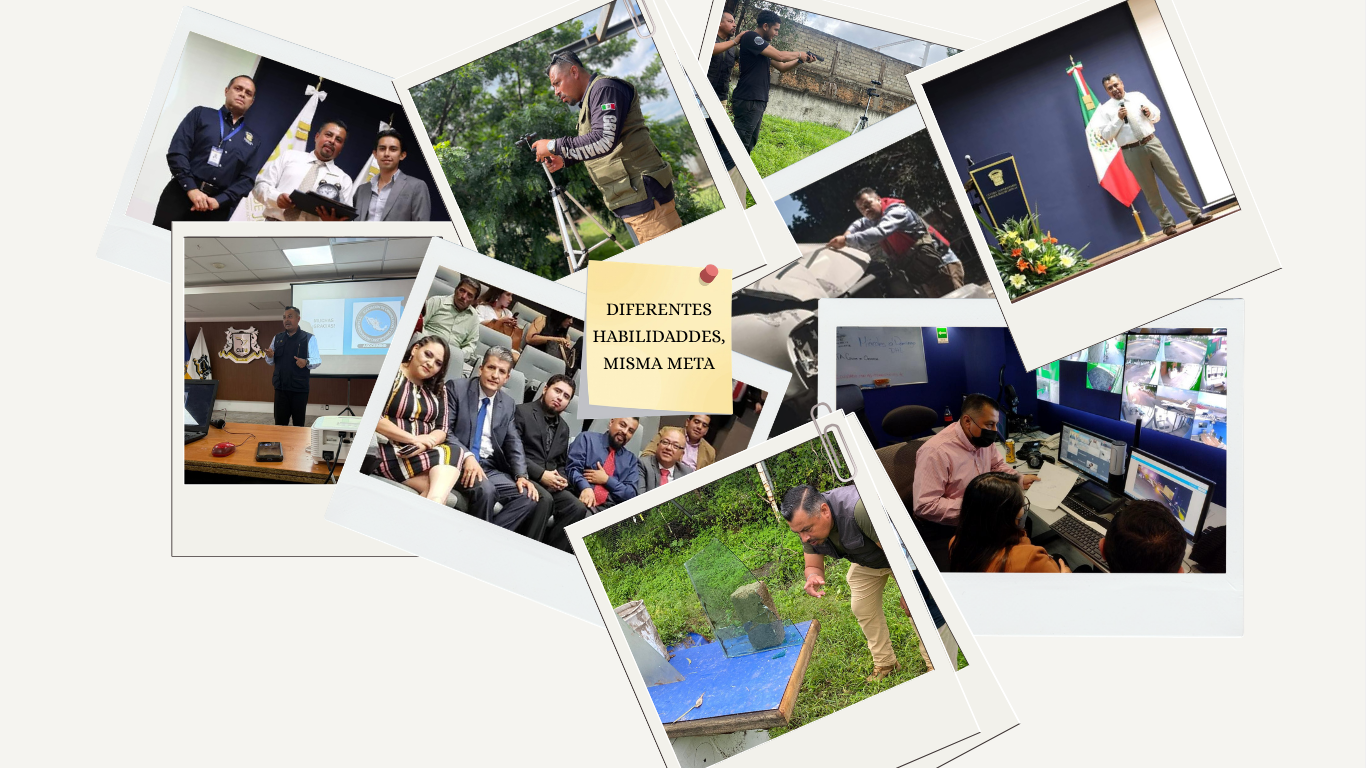
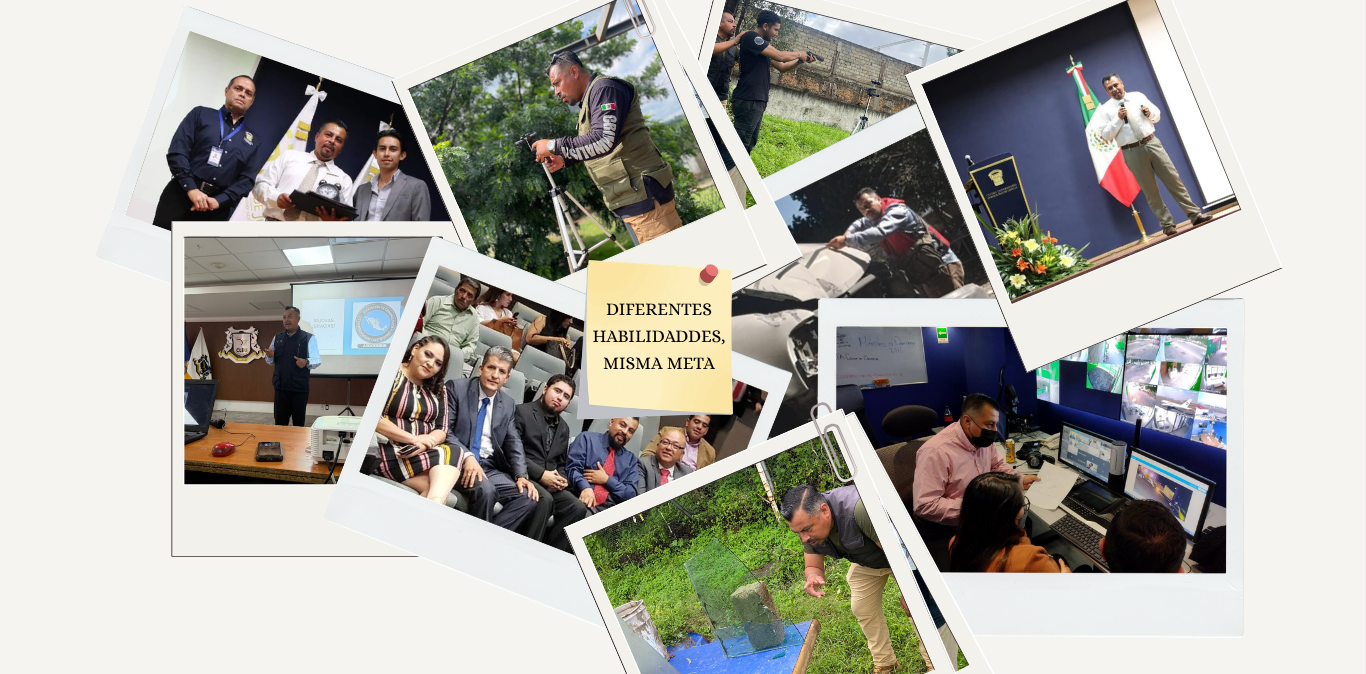
Add files via upload

diff --git a/productos.html b/productos.html
@@ -89,7 +89,7 @@
 
     <section class="catalogo">
         <div class="contenedor">
-            <div class="categoria-productos">
+            <div id="clasica" class="categoria-productos">
                 <div class="titulo-categoria">
                     <h2>Línea clásica</h2>
                 </div>
@@ -279,7 +279,7 @@
                 </div>
             </div>
 
-            <div class="categoria-productos">
+            <div id="forense" class="categoria-productos">
                 <div class="titulo-categoria">
                     <h2>Línea forense</h2>
                 </div>

diff --git a/css/cursos.css b/css/cursos.css
@@ -890,6 +890,9 @@ img {
 
 
 @media (max-width: 400px) {
+    .container {
+        margin-top: 20px;
+    }
 
     .encabezado-cursos h1 {
         font-size: 34px;
@@ -897,6 +900,18 @@ img {
 
     .curso-imagen {
         height: 280px;
+    }
+
+    #diplomado {
+        overflow: hidden;
+        object-fit: cover;
+        object-position: right center;
+        transform: scale(1.57);
+        transform-origin: right center;
+    }
+
+    .curso-contenido {
+        margin-top: 45px;
     }
 
     .curso-contenido h2 {

diff --git a/cursos.html b/cursos.html
@@ -77,7 +77,7 @@
             <div class="container">
                 <div class="curso-destacado-grid">
                     <div class="curso-imagen">
-                        <img src="img/diplomado.jpg" alt="Diplomado destacado">
+                        <img id="diplomado" src="img/diplomado.jpg" alt="Diplomado destacado">
                     </div>
                     <div class="curso-contenido">
                         <span class="etiqueta">DIPLOMADO DESTACADO</span>

diff --git a/css/nosotros.css b/css/nosotros.css
@@ -928,6 +928,20 @@ img {
         height: 320px;
     }
 
+    .perfil-imagen img {
+        overflow: hidden;
+    }
+
+    #dan {
+        object-fit: cover;
+        object-position: center 10%;
+    }
+
+    #ser {
+        object-fit: contain;
+        object-position: center 10%;
+    }
+
     .perfil-info,
     .perfil-invertido .perfil-info {
         padding-top: 30px;

diff --git a/css/contacto.css b/css/contacto.css
@@ -679,13 +679,21 @@ img {
         width: 270px;
     }
 
+    .container {
+        margin-top: 20px;
+    }
+
     .contacto-info h2 {
         font-size: 24px;
     }
 
+    .frase-contacto, .contacto-logo {
+        border-top: none;
+    }
+
     .logo-contenedor {
-        width: 190px;
-        height: 190px;
+        width: 300px;
+        height: 300px;
     }
 
 }

diff --git a/css/productos.css b/css/productos.css
@@ -1058,9 +1058,14 @@ img {
     }
 
     .producto-imagen {
-        height: 220px;
+        height: 250px;
     }
 
+    #clasica .producto-imagen img {
+        overflow: hidden;
+        object-fit: contain;
+    }
+    
     .producto-info {
         padding: 20px;
     }

diff --git a/css/generales.css b/css/generales.css
@@ -904,6 +904,11 @@ img {
         font-size: 26px;
     }
 
+    .servicio-principal {
+        margin-left: 15px;
+        margin-right: 15px;
+    }
+
     .graficas {
         grid-template-columns: 1fr;
         gap: 40px;
